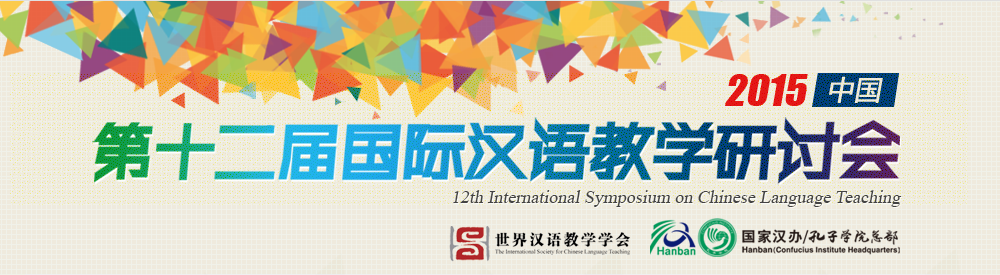
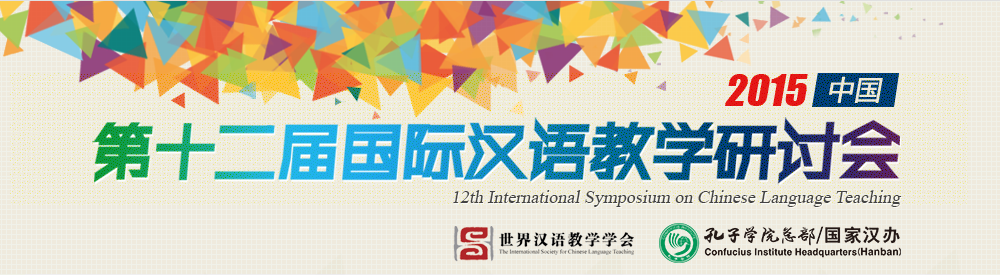
init commit

Changed region(s): [[0.434, 0.7855, 0.899, 0.96]]

diff --git a/app/helpers/application_helper.rb b/app/helpers/application_helper.rb
@@ -30,7 +30,7 @@ module ApplicationHelper
       <ul>
         <li class=\"title\">主办单位：</li>
         <li>#{link_to '世界汉语教学学会', 'http://www.shihan.org.cn', :target => '_blank'}</li>
-        <li>#{link_to '国家汉办/孔子学院总部', 'http://www.hanban.org', :target => '_blank'}</li>
+        <li>#{link_to '孔子学院总部/国家汉办', 'http://www.hanban.org', :target => '_blank'}</li>
       </ul>
     </div>"
   end
